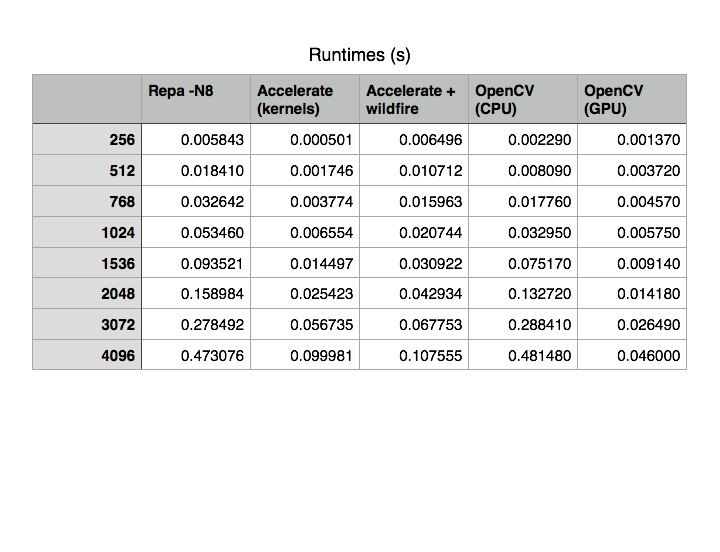
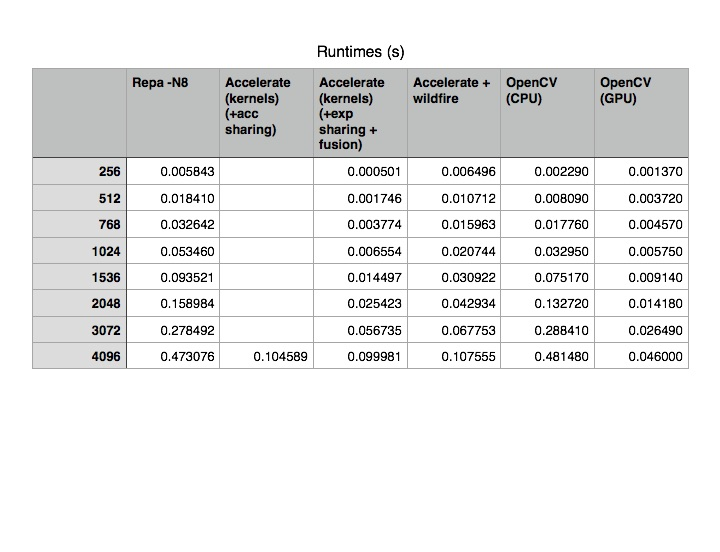
Update Canny result without optimisation
In the results summary table, no-optimisation now means no scalar sharing or array fusion. It turns out that nothing works without array sharing; possibly because arrays are not lifted out of scalar expressions?

Changed region(s): [[0.0306, 0.0616, 0.9778, 0.6775]]

diff --git a/sections/06-results.tex b/sections/06-results.tex
@@ -100,7 +100,8 @@ SMVM (protein)  & 2M
 Canny           & 16M
                 & 46.0 & (OpenCV)
                 & 100  & (217\%)
-                & \multicolumn{2}{c}{(not supported)}
+                % & \multicolumn{2}{c}{\emph{(not supported)}}
+                & 105  & (227\%)
                 \\
 
 Fluid flow      & 2M
@@ -146,7 +147,10 @@ LULESH          & tk
                 \\
 \bottomrule
 \end{tabu}
-\caption{Benchmark Summary}
+\caption[Benchmark summary]{Summary of the performance of the benchmark
+    programs, before and after optimisations. Note that array-level sharing
+    recovery is always enabled, otherwise most programs simply do not run in a
+    reasonable amount of time.}
 \label{tab:benchmark-summary}
 \end{table}
 
